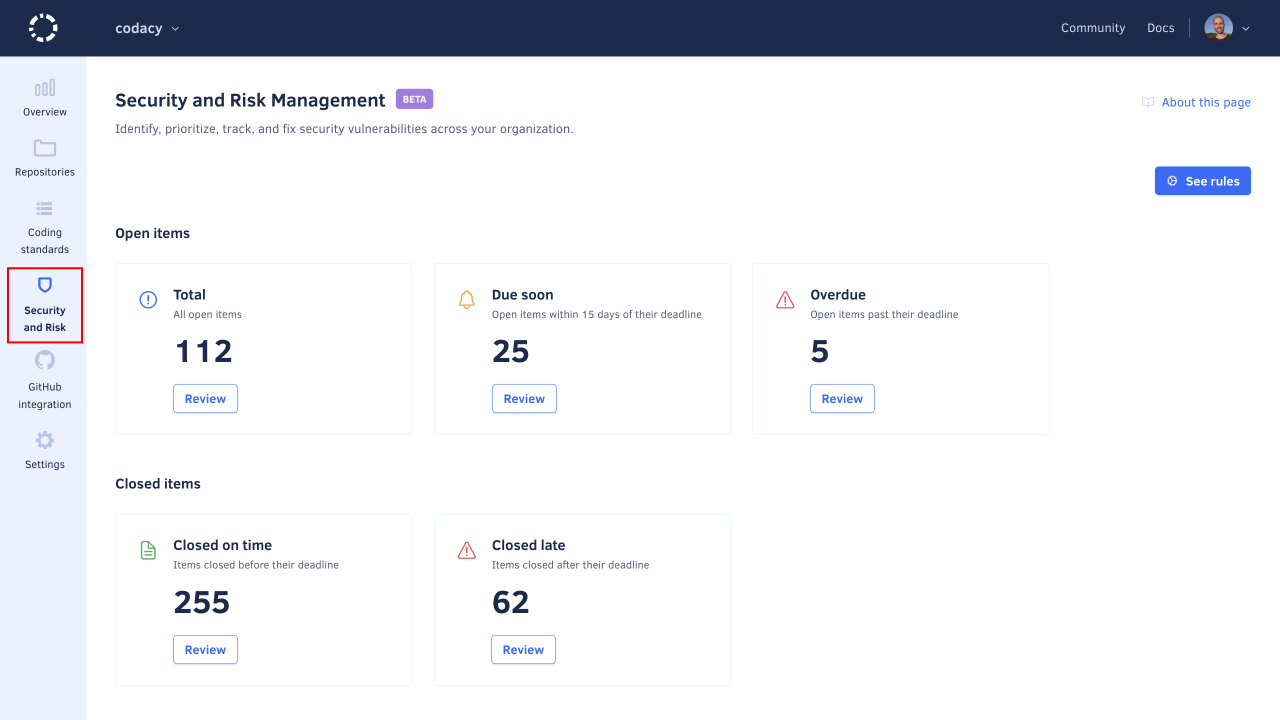
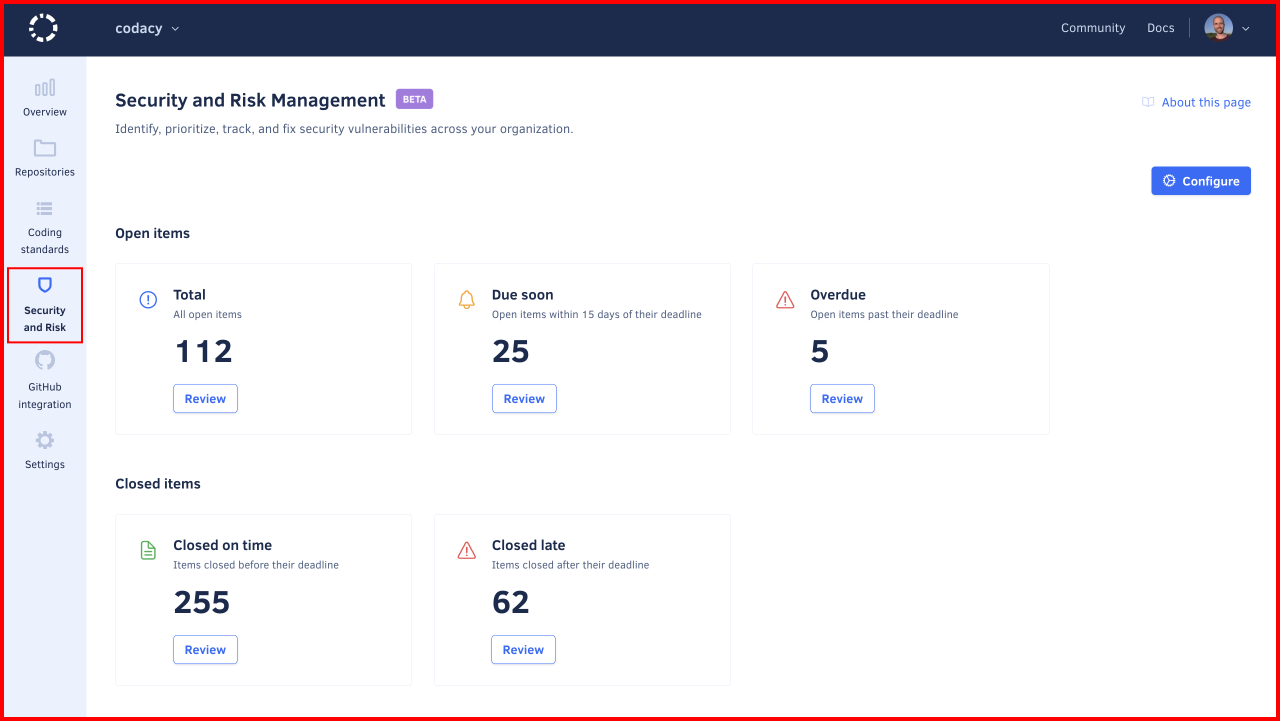
feat: Jira integration

diff --git a/docs/organizations/managing-security-and-risk.md b/docs/organizations/managing-security-and-risk.md
@@ -3,9 +3,9 @@
 !!! info "This is a beta feature"
     This is a new Codacy feature and <span class="skip-vale">we're</span> continuing to improve it.
 
-The **Security and Risk Management** feature helps you <span class="skip-vale">quickly</span> identify, track, and address security vulnerabilities by automatically opening time-bound, prioritized action items whenever Codacy detects Security issues in your organization repositories.
+The **Security and Risk Management** feature helps you <span class="skip-vale">quickly</span> identify, track, and address security vulnerabilities by automatically opening time-bound, prioritized action items whenever Codacy detects Security issues in your organization repositories or in your connected Jira Cloud instance.
 
-Under Security and Risk Management, you have the following pages to help you monitor your repositories:
+Under Security and Risk Management, you can find the following pages to help you monitor your security vulnerabilities:
 
 -   [Dashboard](#dashboard)
 -   [Item list](#item-list)
@@ -32,29 +32,85 @@ Each of these areas displays a count of matching items and a **Review** button t
 
 The Security and Risk Management item list displays a list of items, filtered by status and sorted by due date ascending.
 
-To access the item list, access the [dashboard](#dashboard) and click the **Review** button under the area of interest, based on the desired filtering.
+To access the item list, access the [dashboard](#dashboard) and click the **Review** button under an area of interest, based on the desired filtering.
 
-To find out more about an item, click its **Details** column. This redirects you to a filtered view of the **Repository issues** page, showing only the item of interest.
+To open the originating issue of an item, click the **Details** column of the item of interest.
 
 ![Security and Risk Management item list](images/security-risk-management-item-list.png)
 
+## Managing integrations
+
+Integrations let you detect security vulnerabilities across a number of platforms and display them all as security items on the unified item list.
+
+The following section explains how to integrate with each of the supported platforms.
+
+=== "Codacy"
+
+    The Codacy integration is active by default and can't be deactivated.
+
+=== "Jira Cloud"
+
+    To install the Jira Cloud integration:
+
+    1.  Open your organization **Security and Risk** page and click the **Configure** button. This opens the configuration page.
+
+    1.  On the right-hand side of the page, under the Integrations list, find the Jira entry and click the **Install** button. This redirects you to Atlassian's website.
+
+        ![Security and Risk Management Jira integration](images/security-risk-management-integration-jira.png)
+
+    1.  On Atlassian's website, authorize Codacy to access your Atlassian account. Once successful, you're redirected back to Codacy.
+
+        !!! note
+            Use a Jira account with admin permissions when authorizing Codacy. This lets Codacy access all issues.
+
+        Upon installation, Codacy automatically imports all Jira tickets that were created within the 90-day period preceding the integration and tagged with the label "security" and displays them on the item list, along with items from other sources.
+        
+        Jira-related items are then synchronized daily with the matching Jira issues throughout their lifecycle.
+
+    To uninstall the Jira integration:
+
+    1.  Open your organization **Security and Risk** page and click the button **Configure** to open the configuration page.
+
+    1.  Find the Jira entry under the Integrations area and click the **Options** button (identified by three dots), then select **Uninstall** and confirm.
+
 ## Opening and closing items
 
-!!! important
-    To automatically open and close items, Codacy must detect when the underlying Security issues are introduced and fixed. To make sure that Codacy detects the Security issues correctly:
+<!-- TODO Introductory paragraph with shared concepts
+There was an admonition here to explain why the dashboard may be empty and how to fix it. That admonition is now under the Codacy section below, so we need an introductory sentence here to point the user to that section.
 
-    -   [Enable code patterns](../repositories-configure/configuring-code-patterns.md) belonging to the Security category. These patterns are enabled by default, but may not be on custom configurations.
-    -   Confirm that the latest [commits](../repositories/commits.md) to the default branches of your repositories are analyzed.
+- To find issues and automatically open and close items, Codacy must detect when the underlying issues are introduced and fixed.
+-->
+Codacy automatically opens a security item whenever one of the configured source platforms detects a security vulnerability:
 
-Codacy automatically opens a new item when it detects a new Security issue on the default branch of a repository:
+-   [Every new item is assigned a priority](#item-priorities-and-deadlines) based on the importance of the underlying vulnerability. Each priority also defines a deadline to fix the underlying vulnerability.
 
--   [Every new item is assigned a priority](#item-priorities-and-deadlines) based on the severity of the underlying issue. Each priority also defines a deadline to fix the underlying issue.
+-   [Every new item is assigned a status](#item-statuses) based on the number of days left to fix the underlying vulnerability. As deadlines are approached, met, or missed, items transition through different statuses.
 
--   [Every new item is assigned a status](#item-statuses) based on the number of days left before the deadline to fix the underlying issue. As deadlines are approached, met, or missed, items transition through different statuses.
+Codacy automatically closes an existing security item when the source platform stops detecting the associated security vulnerability.
 
-Codacy automatically closes an item when it stops detecting the underlying issue, when [the underlying issue is ignored](../repositories/issues.md#ignoring-and-managing-issues), or when the [tool that found the underlying issue is disabled](../repositories-configure/configuring-code-patterns.md).
+The following section details when Codacy opens and closes items for each supported platform.
 
-For example, Codacy automatically opens an item with Critical priority upon detecting a new Security issue of Critical severity on the default branch of a repository. If the Security issue is fixed before the deadline, the status of the item changes to Closed on time. If the issue isn't fixed before the deadline, the status of the item changes to Overdue.
+=== "Codacy"
+
+    -   Codacy automatically opens a new item when it detects a new Security issue on the default branch of a repository.
+
+    -   Codacy automatically closes an item when it stops detecting the underlying issue, when [the underlying issue is ignored](../repositories/issues.md#ignoring-and-managing-issues), or when [the tool that found the underlying issue is disabled](../repositories-configure/configuring-code-patterns.md).
+
+    !!! note
+        To make sure that Codacy detects Security issues correctly:
+
+        -   [Enable code patterns](../repositories-configure/configuring-code-patterns.md) belonging to the Security category. These patterns are enabled by default, but may not be on custom configurations.
+        -   Alternatively, [apply a coding standard](using-coding-standards.md) that includes patterns belonging to the Security category.
+        -   Confirm that the latest [commits](../repositories/commits.md) to the default branches of your repositories are analyzed.
+
+=== "Jira Cloud"
+
+    -   Codacy automatically opens a new item when it detects a new Jira issue with a "security" label.
+
+    -   Codacy automatically closes an item when it detects that the underlying Jira issue is marked as Closed.
+
+    !!! note
+        Codacy retrieves updates from Jira once a day. To make sure that Codacy detects Jira issues correctly, assign the "security" label when creating the issue or immediately after.
 
 ## Item statuses
 
@@ -96,16 +152,24 @@ The following table describes how item statuses map to deadlines:
 
 ## Item priorities and deadlines
 
-The following table defines item priorities and days to fix the underlying Codacy security issue, based on the severity of the issue:
+The following table defines item priorities and days to fix the underlying issue, based on the importance of the issue:
 
-| Security issue severity | Item priority | Days to close |
-|-------------------------|---------------|---------------|
-| Critical                | Critical      | 30            |
-| Medium                  | Medium        | 90            |
-| Minor                   | Low           | 120           |
+
+| Item priority | Days to close | Codacy Security issue severity | Jira security issue priority |
+|---------------|---------------|--------------------------------|------------------------------|
+| Critical      | 30            | Critical                       | Blocker                      |
+| High          | 60            | -                              | High                         |
+| Medium        | 90            | Medium                         | Medium                       |
+| Low           | 120           | Minor                          | Low and other                |
 
 ## Data retention
 
 Codacy retains open items indefinitely and closed items for one year.
 
-Deleting a repository deletes all open items belonging to that repository.
+=== "Codacy"
+
+    Deleting a repository deletes all open items belonging to that repository.
+
+=== "Jira Cloud"
+
+    Uninstalling the Jira integration removes any associated open items from the Security and Risk dashboard. Closed items are retained for one year.
